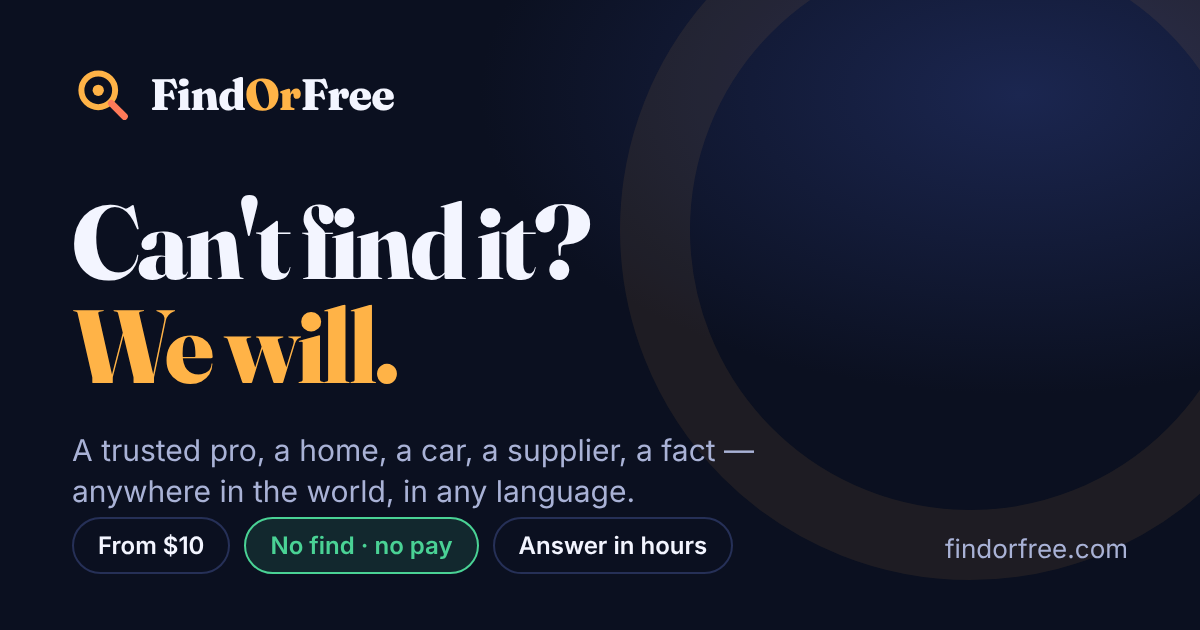
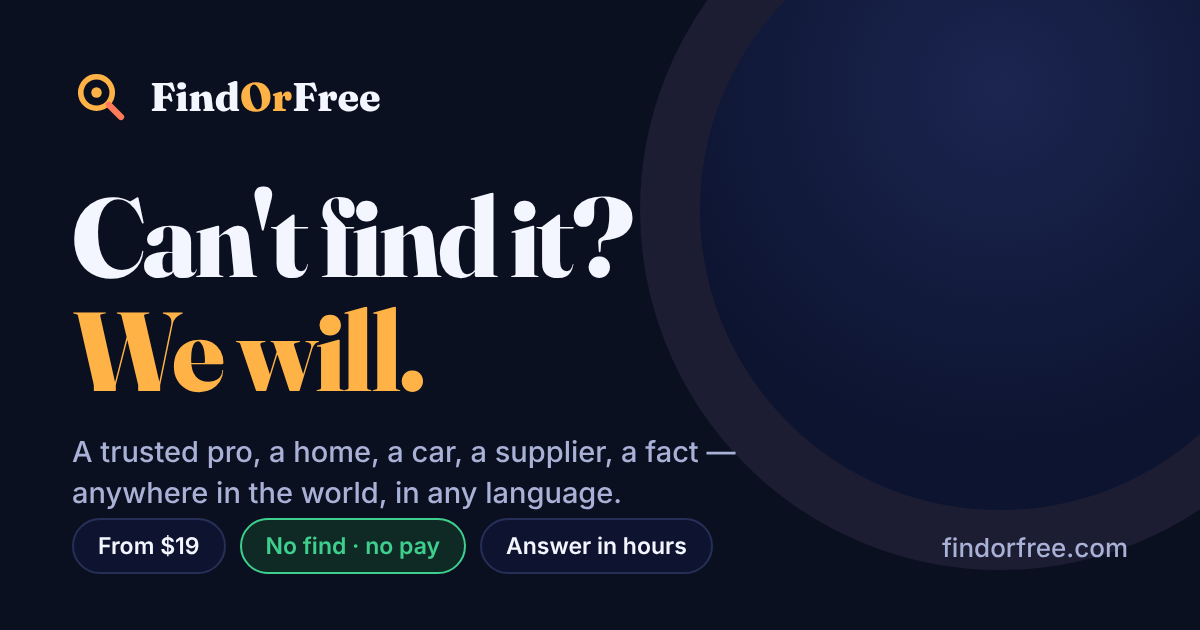
Share image: From $19; tip pages use their own card as preview
Claude-Session: https://claude.ai/code/session_019nui3WJvAaEp3fwxPriono

diff --git a/tips/plug-adapter-type-g-countries.html b/tips/plug-adapter-type-g-countries.html
@@ -7,7 +7,7 @@
 <meta charset="utf-8">
 <meta name="viewport" content="width=device-width, initial-scale=1">
 <link rel="icon" href="/favicon.svg" type="image/svg+xml">
-<meta property="og:image" content="https://findorfree.com/og.png">
+<meta property="og:image" content="https://findorfree.com/tips/img/type-g-countries-en.png">
 <link href="https://fonts.googleapis.com/css2?family=Fraunces:opsz,wght@9..144,700&family=Inter:wght@400;600&family=Heebo:wght@400;700&display=swap" rel="stylesheet">
 <style>
 :root{--bg:#0b1020;--card:#161f3d;--line:#263057;--ink:#f3f5ff;--muted:#a9b2d6;--accent:#ffb347}

diff --git a/tips/cyprus-power-plugs.html b/tips/cyprus-power-plugs.html
@@ -7,7 +7,7 @@
 <meta charset="utf-8">
 <meta name="viewport" content="width=device-width, initial-scale=1">
 <link rel="icon" href="/favicon.svg" type="image/svg+xml">
-<meta property="og:image" content="https://findorfree.com/og.png">
+<meta property="og:image" content="https://findorfree.com/tips/img/cyprus-plugs-en.png">
 <link href="https://fonts.googleapis.com/css2?family=Fraunces:opsz,wght@9..144,700&family=Inter:wght@400;600&family=Heebo:wght@400;700&display=swap" rel="stylesheet">
 <style>
 :root{--bg:#0b1020;--card:#161f3d;--line:#263057;--ink:#f3f5ff;--muted:#a9b2d6;--accent:#ffb347}

diff --git a/tips/germany-rent-kaltmiete-warmmiete.html b/tips/germany-rent-kaltmiete-warmmiete.html
@@ -7,7 +7,7 @@
 <meta charset="utf-8">
 <meta name="viewport" content="width=device-width, initial-scale=1">
 <link rel="icon" href="/favicon.svg" type="image/svg+xml">
-<meta property="og:image" content="https://findorfree.com/og.png">
+<meta property="og:image" content="https://findorfree.com/tips/img/germany-rent-en.png">
 <link href="https://fonts.googleapis.com/css2?family=Fraunces:opsz,wght@9..144,700&family=Inter:wght@400;600&family=Heebo:wght@400;700&display=swap" rel="stylesheet">
 <style>
 :root{--bg:#0b1020;--card:#161f3d;--line:#263057;--ink:#f3f5ff;--muted:#a9b2d6;--accent:#ffb347}

diff --git a/tips/prague-rent-without-agency.html b/tips/prague-rent-without-agency.html
@@ -7,7 +7,7 @@
 <meta charset="utf-8">
 <meta name="viewport" content="width=device-width, initial-scale=1">
 <link rel="icon" href="/favicon.svg" type="image/svg+xml">
-<meta property="og:image" content="https://findorfree.com/og.png">
+<meta property="og:image" content="https://findorfree.com/tips/img/prague-rent-en.png">
 <link href="https://fonts.googleapis.com/css2?family=Fraunces:opsz,wght@9..144,700&family=Inter:wght@400;600&family=Heebo:wght@400;700&display=swap" rel="stylesheet">
 <style>
 :root{--bg:#0b1020;--card:#161f3d;--line:#263057;--ink:#f3f5ff;--muted:#a9b2d6;--accent:#ffb347}

diff --git a/tips/dubai-rent-extra-costs.html b/tips/dubai-rent-extra-costs.html
@@ -7,7 +7,7 @@
 <meta charset="utf-8">
 <meta name="viewport" content="width=device-width, initial-scale=1">
 <link rel="icon" href="/favicon.svg" type="image/svg+xml">
-<meta property="og:image" content="https://findorfree.com/og.png">
+<meta property="og:image" content="https://findorfree.com/tips/img/dubai-rent-en.png">
 <link href="https://fonts.googleapis.com/css2?family=Fraunces:opsz,wght@9..144,700&family=Inter:wght@400;600&family=Heebo:wght@400;700&display=swap" rel="stylesheet">
 <style>
 :root{--bg:#0b1020;--card:#161f3d;--line:#263057;--ink:#f3f5ff;--muted:#a9b2d6;--accent:#ffb347}
